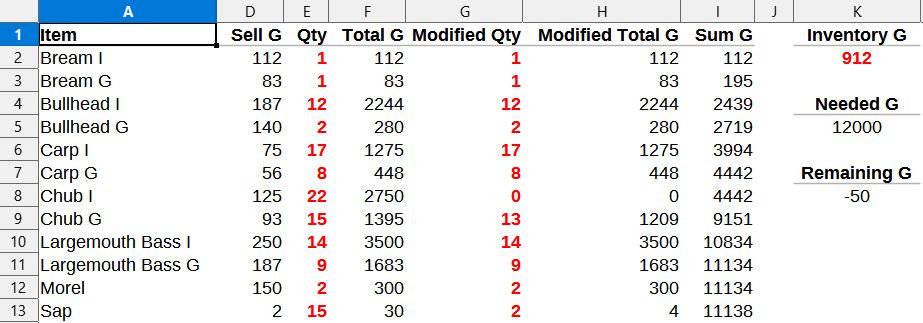
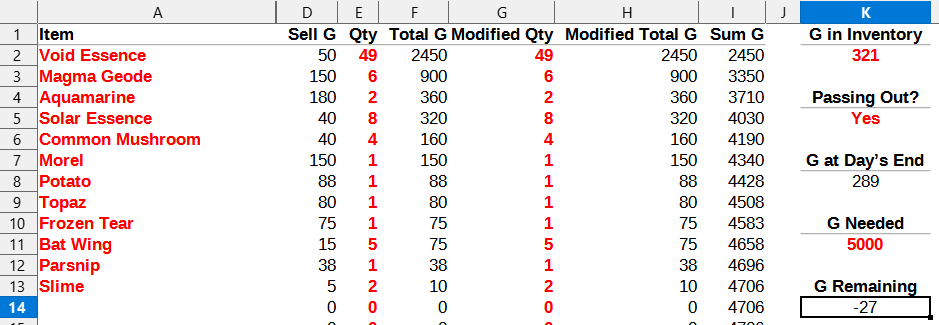
Refined spreadsheet documentation and screenshots

diff --git a/min-max/1.5/spreadsheet.md b/min-max/1.5/spreadsheet.md
@@ -39,27 +39,25 @@ Prices are automatically calculated using precise formulas that include proper d
 
 Different combinations of base price and tiered prices are present based on whether a particular item benefits from professions, special effects (e.g., [Bear's Knowledge](https://stardewvalleywiki.com/Bear%27s_Knowledge)), both, or neither.
 
-## Daily tabs
+## *Generic Item Table* tab
 
-Daily tabs contain many different data depending on the needs of the day. However, there are several designs that are useful for many days.
+![Item Tables](images/generic-item-table-tab.png)
 
-### Item tables
+The *Generic Item Table* tab presents a table where you can enter the names of items and their qualities along with a quantity. The table keeps a running sum of all the items. You can sort these tables any way you wish.
 
-![Item Tables](images/item-tables.png)
+The spreadsheet automatically looks up an item by its name after you type it in. If the item supports a quality, append `<space>S` for *Silver*, `<space>G` for *Gold*, or `<space>I` for *Iridium* to the item name and the correct quality's sell price will be used.
 
-Item tables appear in various forms on many daily tabs. The spreadsheet will automatically look up an item by its name after you type it in. If the item supports a quality, append `<space>S` for *Silver*, `<space>G` for *Gold*, or `<space>I` for *Iridium* to the item name and the correct quality's sell price will be used.
+Note the hidden *B* and *C* columns. Be sure that when creating new rows you highlight a selection of cells between `A` and `I`, then copy the cells below the existing rows. Avoid using the drag handle as it does not copy hidden cells. The tab has been pre-populated with 50 pre-filled rows for your convenience.
 
-Note the hidden *B* and *C* columns. Be sure that when creating new rows you highlight an existing row and copy the entire row, not just the *A* and *D* columns. These hidden columns are used in the formulas that calculate qualities.
+Many daily tabs contain copies of the generic item table for convenience.
 
-You can sort these tables any way you wish.
+### Determining the most valuable item stacks with which to fill your inventory
 
-#### Determining the most valuable item stacks with which to fill your inventory
-
-Sometimes, the guide requires that you fill your inventory with the most valuable items to ship. To accomplish this, fill out the table, then select the entire *Total G* column, then sort descending.
+The guide often requires that you fill your inventory with the most valuable item stacks to ship. To accomplish this, fill out the table, then select the entire *Total G* column, then sort descending.
 
 ![Sorting Item Tables](images/sorting-item-tables.png)
 
-#### Determining exactly what items must be shipped to reach a daily target G
+### Determining exactly what items must be shipped to reach a daily target G
 
 Sometimes, the guide requires that you ship enough items to reach a certain target G for the following day. The principle is that by keeping G as close to zero as possible, a minimum amount of G will be lost due to the 10% penalty for passing out.
 
@@ -71,22 +69,20 @@ The *Modified Qty* column is the quantity of the item you actually plan on selli
 
 The *Sum G* column keeps a running total of the sum of all items shipped. This data is primarily used in formulas.
 
-When a *Remaining G* value goes negative, it means you will have shipped more than is necessary. Usually, this is unavoidable but careful selection of the items you ship can minimize the extra income.
+The *G in Inventory* cell tracks how much G you have in your inventory at that point.
 
-Note that *Inventory G* columns are not merely numbers but are formulas. It is your responsibility to modify the formula to account for passing out or not.
+The *Passing Out?* choice will apply a passing out penalty of 10% to the G in Inventory if you choose *Yes*. The final amount is represented by the *G at Day's End* cell.
 
-### G in Inventory
+*G Needed* indicates what the target G for the following day is.
 
-Often, you will need to provide the amount of G in your inventory. On days where this number is used to calculate the next day's G total, be sure to account for the 10% penalty for passing out. Use the formula `=1234*0.9`, for example, to indicate you have 1,234g at the end of the current day but plan on passing out.
+*G Remaining* indicates how much more G you need to ship to reach the target. When the value is negative, it means you will have shipped more than is necessary. Usually, this is unavoidable but careful selection of the items you ship can minimize the extra income.
 
-### Search
+## Daily tabs
+
+Daily tabs contain many different configurations depending on the needs of the day.
+
+## Search
 
 ![Search](images/search.png)
 
-Nearly all daily tabs include a search feature. Simply type in an item name and optionally a quality (using the syntax described above) and its prices will be displayed. This helps avoid the need to change tabs to the *Items and Professions* tab.
-
-### Other calculations
-
-There are many one-off calculations for various days. These are defined on an as-needed basis depending on what the guide requires. For example, these calculations help you know exactly how many Ore and Quartz to farm to make a precise number of Quality Sprinklers.
-
-![Other Calculations](images/other-calculations.png)
+Many tabs include a search feature. Simply type in an item name and optionally a quality (using the syntax described above) and its prices will be displayed. This helps avoid the need to change tabs to the *Items and Professions* tab.
